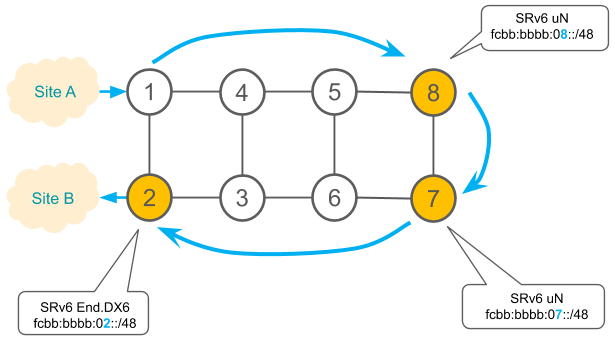
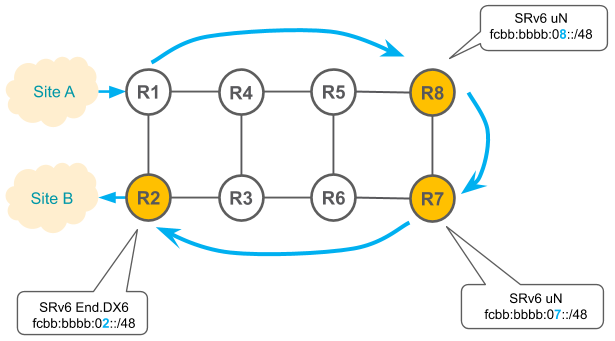
Update README.md, docs/images/p4-srv6-usid-demo-topology.png files

diff --git a/README.md b/README.md
@@ -21,7 +21,7 @@ This repository is structured as follows:
 
 ## DEMO overview
 
-In this demo we illustrate the use-case of transporting customer packets over a SRv6 network from Site A to Site B along the shortest path through nodes 8, 7 and 2.
+In this demo we illustrate the use-case of transporting customer packets over a SRv6 network from Site A to Site B forcing the packets to cross two waypoints (nodes R8 and R7) along the path from node R1 to node R2. Regular shortest path routing is used from R1 to R8, from R8 to R7 and from R7 to R2.
 
 For a complete description of the proposed use-case please refer to the 
 SRv6 "Micro program" [video tutorial](http://www.segment-routing.net/20200212-srv6-status/srv6-technology-and-use-cases-part5) available on the
@@ -30,7 +30,8 @@ SRv6 "Micro program" [video tutorial](http://www.segment-routing.net/20200212-sr
 <!--- img source (old version in draw.io):
       https://drive.google.com/file/d/1vMB6GEX-DhCClDEddQC_Ss_MY_HNiwAq/view?usp=sharing --->
 <!--- img source (new version in gslide):
-      https://docs.google.com/presentation/d/1rV0ViQYk9lYUnJH16zvf5qBDUK4yTWAeHoryo6Fe0jo/edit#slide=id.g7f4100c2bd_6_0 --->
+      https://docs.google.com/presentation/d/1rV0ViQYk9lYUnJH16zvf5qBDUK4yTWAeHoryo6Fe0jo/edit#slide=id.g7f4100c2bd_6_0 
+      export the slide as .png, cut to roughly 615x341, and upload in docs/images with the same name --->
 
 ![p4-srv6-usid-demo-topology.jpg](<./docs/images/p4-srv6-usid-demo-topology.png>)
 
